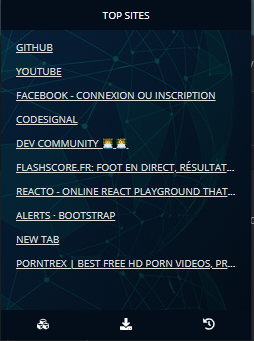
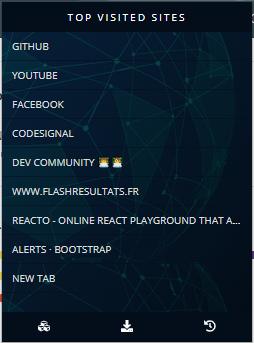
update app

diff --git a/src/App.js b/src/App.js
@@ -5,11 +5,11 @@ import ListHistory from './components/ListHistory';
 //const Settings = React.lazy(() => import('./components/Settings'));
 
 const tabs = [
-  { id: 0, title: 'top sites', comp: <ListTopSites />, svg:<svg xmlns="http://www.w3.org/2000/svg" aria-hidden="true" focusable="false" data-prefix="fas" data-icon="cubes" className="svg-inline--fa fa-cubes fa-w-16" role="img" viewBox="0 0 512 512"><path fill="#fff" d="M488.6 250.2L392 214V105.5c0-15-9.3-28.4-23.4-33.7l-100-37.5c-8.1-3.1-17.1-3.1-25.3 0l-100 37.5c-14.1 5.3-23.4 18.7-23.4 33.7V214l-96.6 36.2C9.3 255.5 0 268.9 0 283.9V394c0 13.6 7.7 26.1 19.9 32.2l100 50c10.1 5.1 22.1 5.1 32.2 0l103.9-52 103.9 52c10.1 5.1 22.1 5.1 32.2 0l100-50c12.2-6.1 19.9-18.6 19.9-32.2V283.9c0-15-9.3-28.4-23.4-33.7zM358 214.8l-85 31.9v-68.2l85-37v73.3zM154 104.1l102-38.2 102 38.2v.6l-102 41.4-102-41.4v-.6zm84 291.1l-85 42.5v-79.1l85-38.8v75.4zm0-112l-102 41.4-102-41.4v-.6l102-38.2 102 38.2v.6zm240 112l-85 42.5v-79.1l85-38.8v75.4zm0-112l-102 41.4-102-41.4v-.6l102-38.2 102 38.2v.6z"></path></svg>},
-  { id: 1, title: 'downloads', comp: <ListDownloads />, svg:<svg xmlns="http://www.w3.org/2000/svg" aria-hidden="true" focusable="false" data-prefix="fas" data-icon="download" className="svg-inline--fa fa-download fa-w-16" role="img" viewBox="0 0 512 512">
+  { id: 0, title: 'top visited sites', comp: <ListTopSites />, svg:<svg xmlns="http://www.w3.org/2000/svg" aria-hidden="true" focusable="false" data-prefix="fas" data-icon="cubes" className="svg-inline--fa fa-cubes fa-w-16" role="img" viewBox="0 0 512 512"><path fill="#fff" d="M488.6 250.2L392 214V105.5c0-15-9.3-28.4-23.4-33.7l-100-37.5c-8.1-3.1-17.1-3.1-25.3 0l-100 37.5c-14.1 5.3-23.4 18.7-23.4 33.7V214l-96.6 36.2C9.3 255.5 0 268.9 0 283.9V394c0 13.6 7.7 26.1 19.9 32.2l100 50c10.1 5.1 22.1 5.1 32.2 0l103.9-52 103.9 52c10.1 5.1 22.1 5.1 32.2 0l100-50c12.2-6.1 19.9-18.6 19.9-32.2V283.9c0-15-9.3-28.4-23.4-33.7zM358 214.8l-85 31.9v-68.2l85-37v73.3zM154 104.1l102-38.2 102 38.2v.6l-102 41.4-102-41.4v-.6zm84 291.1l-85 42.5v-79.1l85-38.8v75.4zm0-112l-102 41.4-102-41.4v-.6l102-38.2 102 38.2v.6zm240 112l-85 42.5v-79.1l85-38.8v75.4zm0-112l-102 41.4-102-41.4v-.6l102-38.2 102 38.2v.6z"></path></svg>},
+  { id: 1, title: 'last 20 downloads', comp: <ListDownloads />, svg:<svg xmlns="http://www.w3.org/2000/svg" aria-hidden="true" focusable="false" data-prefix="fas" data-icon="download" className="svg-inline--fa fa-download fa-w-16" role="img" viewBox="0 0 512 512">
   <path fill="#fff" d="M216 0h80c13.3 0 24 10.7 24 24v168h87.7c17.8 0 26.7 21.5 14.1 34.1L269.7 378.3c-7.5 7.5-19.8 7.5-27.3 0L90.1 226.1c-12.6-12.6-3.7-34.1 14.1-34.1H192V24c0-13.3 10.7-24 24-24zm296 376v112c0 13.3-10.7 24-24 24H24c-13.3 0-24-10.7-24-24V376c0-13.3 10.7-24 24-24h146.7l49 49c20.1 20.1 52.5 20.1 72.6 0l49-49H488c13.3 0 24 10.7 24 24zm-124 88c0-11-9-20-20-20s-20 9-20 20 9 20 20 20 20-9 20-20zm64 0c0-11-9-20-20-20s-20 9-20 20 9 20 20 20 20-9 20-20z"></path>
   </svg> },
-  { id: 2, title: 'history', comp: <ListHistory />, svg:<svg xmlns="http://www.w3.org/2000/svg" aria-hidden="true" focusable="false" data-prefix="fas" data-icon="history" className="svg-inline--fa fa-history fa-w-16" role="img" viewBox="0 0 512 512"><path fill="#fff" d="M504 255.531c.253 136.64-111.18 248.372-247.82 248.468-59.015.042-113.223-20.53-155.822-54.911-11.077-8.94-11.905-25.541-1.839-35.607l11.267-11.267c8.609-8.609 22.353-9.551 31.891-1.984C173.062 425.135 212.781 440 256 440c101.705 0 184-82.311 184-184 0-101.705-82.311-184-184-184-48.814 0-93.149 18.969-126.068 49.932l50.754 50.754c10.08 10.08 2.941 27.314-11.313 27.314H24c-8.837 0-16-7.163-16-16V38.627c0-14.254 17.234-21.393 27.314-11.314l49.372 49.372C129.209 34.136 189.552 8 256 8c136.81 0 247.747 110.78 248 247.531zm-180.912 78.784l9.823-12.63c8.138-10.463 6.253-25.542-4.21-33.679L288 256.349V152c0-13.255-10.745-24-24-24h-16c-13.255 0-24 10.745-24 24v135.651l65.409 50.874c10.463 8.137 25.541 6.253 33.679-4.21z"></path></svg> }
+  { id: 2, title: 'last 20 visited urls', comp: <ListHistory />, svg:<svg xmlns="http://www.w3.org/2000/svg" aria-hidden="true" focusable="false" data-prefix="fas" data-icon="history" className="svg-inline--fa fa-history fa-w-16" role="img" viewBox="0 0 512 512"><path fill="#fff" d="M504 255.531c.253 136.64-111.18 248.372-247.82 248.468-59.015.042-113.223-20.53-155.822-54.911-11.077-8.94-11.905-25.541-1.839-35.607l11.267-11.267c8.609-8.609 22.353-9.551 31.891-1.984C173.062 425.135 212.781 440 256 440c101.705 0 184-82.311 184-184 0-101.705-82.311-184-184-184-48.814 0-93.149 18.969-126.068 49.932l50.754 50.754c10.08 10.08 2.941 27.314-11.313 27.314H24c-8.837 0-16-7.163-16-16V38.627c0-14.254 17.234-21.393 27.314-11.314l49.372 49.372C129.209 34.136 189.552 8 256 8c136.81 0 247.747 110.78 248 247.531zm-180.912 78.784l9.823-12.63c8.138-10.463 6.253-25.542-4.21-33.679L288 256.349V152c0-13.255-10.745-24-24-24h-16c-13.255 0-24 10.745-24 24v135.651l65.409 50.874c10.463 8.137 25.541 6.253 33.679-4.21z"></path></svg> }
 ];
 
 export default function App () {
@@ -24,7 +24,7 @@ export default function App () {
 
   return <div className="container d-flex-col">
 
-    <header className="w-100 d-flex">{tabs[state.activeTab].title}</header>
+    <header className="w-100 d-flex lsp2">{tabs[state.activeTab].title}</header>
 
     <div className="w-100 list">{tabs[state.activeTab].comp}</div>
 

diff --git a/src/index.css b/src/index.css
@@ -1,6 +1,6 @@
 :root {
-  --main-color: #242424;
-  --bg-card:#424242;
+  --main-color: #030e1a;
+  --bg-hover:#ffffff1a;
   --box-shadow: 0px 1.6px 3.6px rgba(0, 0, 0, 0.25), 0px 0px 2.9px rgba(0, 0, 0, 0.21);
 }
 
@@ -27,23 +27,25 @@ body {margin: 0; overflow-x: hidden;}
   text-transform: uppercase;
 }
 
-.list {height: 280px; padding: 5px; overflow-y: auto; scrollbar-width: thin; }
+.list {height: 280px; overflow-y: auto; scrollbar-width: thin; }
 
 header,.tabs {height:30px; background-color: #030e1a;}
 
 .tabs { position: fixed;bottom: 0;left: 0;right: 0;z-index: 9;}
-.tabs>span {flex: 1 1 33%; text-align: center; }
+.tabs span {flex: 1 1 33%; text-align: center; }
+
 /*******************************/
 ul { width: 100%; list-style: none; margin: 0; padding: 0;  }
-li {padding: 5px 10px; width: 100%;}
+li {padding: 7px 10px; width: 100%; border-bottom: 1px solid #030e1a82; cursor: pointer; transition: background .25s; }
+li:hover {background-color: var(--bg-hover);}
 
-a {transition: all .25s;}
-a:hover {color: #ffffff !important; text-decoration: initial;}
+a { text-decoration: none; transition: all .25s;}
+a:hover {color: #ffffff !important; }
 
 button {    background-color: #ff5151;
   color: #fff; border-radius: 4px; border: 1px solid #000; box-shadow: var(--box-shadow); transition:all .25s}
 
-button:hover {background-color: #e7e7e723; }
+button:hover {background-color: #030e1a; }
 
 svg {
   width: 12px;
@@ -94,6 +96,35 @@ hr {
   white-space: nowrap;
   overflow: hidden;
   text-overflow: ellipsis;
+}
+
+
+/**************************************/
+.spinner {
+  width: 100%;
+  height: 100%;
+  position: fixed;
+  top: 0;
+  left: 0;
+  background-color: var(--bg-hover);
+  z-index: 999;
+}
+.spinner-border {
+  display: inline-block;
+  width: 4rem;
+  height:4rem;
+  vertical-align: text-bottom;
+  border: .25em solid currentColor;
+  border-right-color: transparent;
+  border-radius: 50%;
+  animation: spinner-border .75s linear infinite;
+}
+
+@keyframes spinner-border {
+  to {
+    -webkit-transform: rotate(360deg);
+    transform: rotate(360deg);
+  }
 }
 /************ Scroll **************/
 ::-webkit-scrollbar {

diff --git a/src/components/ListHistory.js b/src/components/ListHistory.js
@@ -1,4 +1,5 @@
 import React, { useState, useEffect } from 'react';
+import Spinner from './Spinner';
 
 let isChrome = /Chrome/.test(navigator.userAgent) && /Google Inc/.test(navigator.vendor);
 window.chrome = isChrome ? window.chrome : window.browser;
@@ -6,31 +7,37 @@ window.chrome = isChrome ? window.chrome : window.browser;
 export default function ListHistory () {
 
   const [allSites, setAllSites] = useState(null);
+  const [isLoading, setIsLoading] = useState(true);
 
   useEffect(() => {
     window.chrome.history.search({ text: '', maxResults: 15 }, (historySites) => {
       setAllSites(historySites);
+      setIsLoading(false);
     });
   }, []);
 
   const onRm = (site) => {
     let c = window.confirm("Are you sure you wish to delete? " + site.title);
     c && window.chrome.history.deleteUrl({ url: site.url }, () => {
+      setIsLoading(true);
       window.chrome.history.search({ text: '', maxResults: 15 }, (historySites) => {
         setAllSites(historySites);
+        setIsLoading(false);
       });
     });
   }
 
-  return (
+  return (<>
     <ul>
       {allSites && allSites.map(site => <li key={site.id} className="d-flex-sp truncate">
-        <span onClick={() => { window.chrome.downloads.show(site.id) }} className="truncate">
+        <a href={site.url} target="_blank" rel="noopener noreferrer" className="truncate txt-muted">
           {site.title}
-        </span>
+        </a>
 
         <button onClick={() => { onRm(site) }}>D</button>
       </li>)}
     </ul>
-  );
+
+    {isLoading && <Spinner />}
+  </>);
 }

diff --git a/src/components/ListDownloads.js b/src/components/ListDownloads.js
@@ -1,4 +1,5 @@
 import React, { useState, useEffect } from 'react';
+import Spinner from './Spinner';
 
 let isChrome = /Chrome/.test(navigator.userAgent) && /Google Inc/.test(navigator.vendor);
 window.chrome = isChrome ? window.chrome : window.browser;
@@ -16,24 +17,27 @@ function extractFileName (fileUrl) {
 export default function ListDownloads () {
 
   const [state, setState] = useState(null);
+  const [isLoading, setIsLoading] = useState(true);
 
   useEffect(() => {
     window.chrome.downloads.search({}, (downloads) => {
-      console.log(downloads);
       setState(downloads.slice(0, 20));
+      setIsLoading(false);
     });
   }, []);
 
   const onRm = (file) => {
     let c = window.confirm("Are you sure you wish to delete? " + extractFileName(file.filename));
     c && window.chrome.downloads.erase({ id: file.id }, () => {
+      setIsLoading(true);
       window.chrome.downloads.search({}, (downloads) => {
         setState(downloads.slice(0, 20));
+        setIsLoading(false);
       });
     });
   }
 
-  return (
+  return (<>
     <ul>
       {state && state.map(file => <li key={file.id} className="truncate d-flex-sp">
 
@@ -44,5 +48,7 @@ export default function ListDownloads () {
         <button onClick={() => { onRm(file) }}>D</button>
       </li>)}
     </ul>
-  );
+
+    {isLoading && <Spinner />}
+  </>);
 }

diff --git a/src/components/ListTopSites.js b/src/components/ListTopSites.js
@@ -16,7 +16,7 @@ export default function ListTopSites () {
   return (
     <ul>
       {allSites && allSites.map(site => <li key={site.id} className="truncate">
-        <a href={site.url} target="_blank" rel="noopener noreferrer" className="txt-muted">{site.title}</a>
+        <a href={site.url} target="_blank" rel="noopener noreferrer" className="truncate txt-muted">{site.title}</a>
       </li>)}
     </ul>
   );

diff --git a/src/components/Spinner.js b/src/components/Spinner.js
@@ -1,0 +1,7 @@
+import React from 'react';
+
+export default function Spinner () {
+  return (<div className="spinner d-flex">
+    <div className="spinner-border"></div>
+  </div>);
+}
